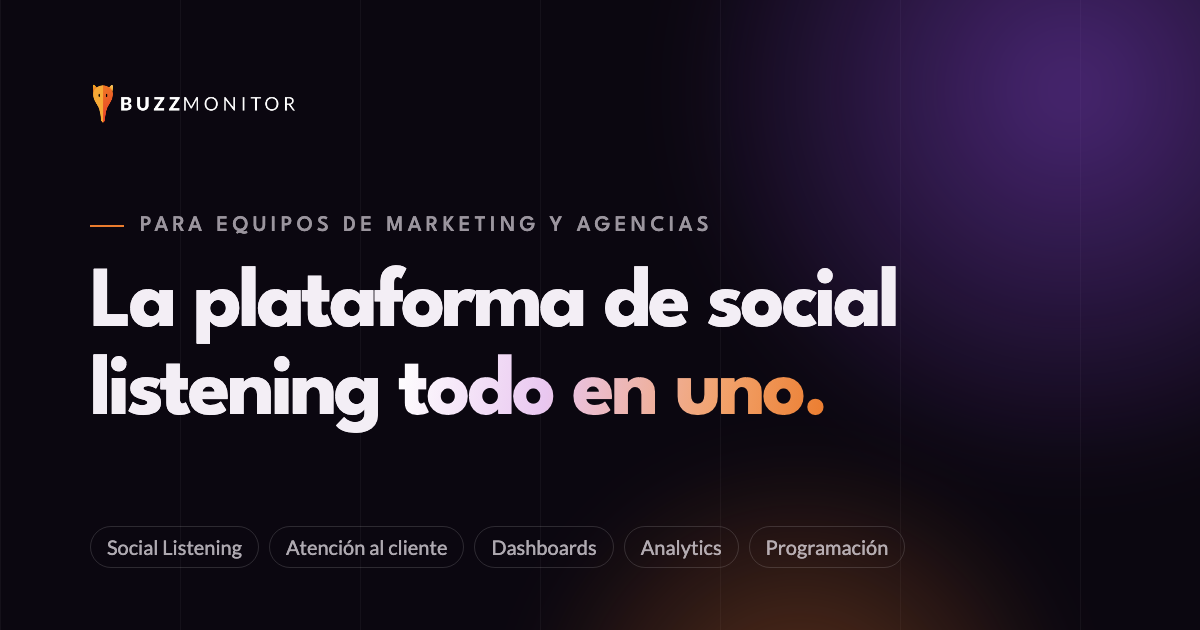
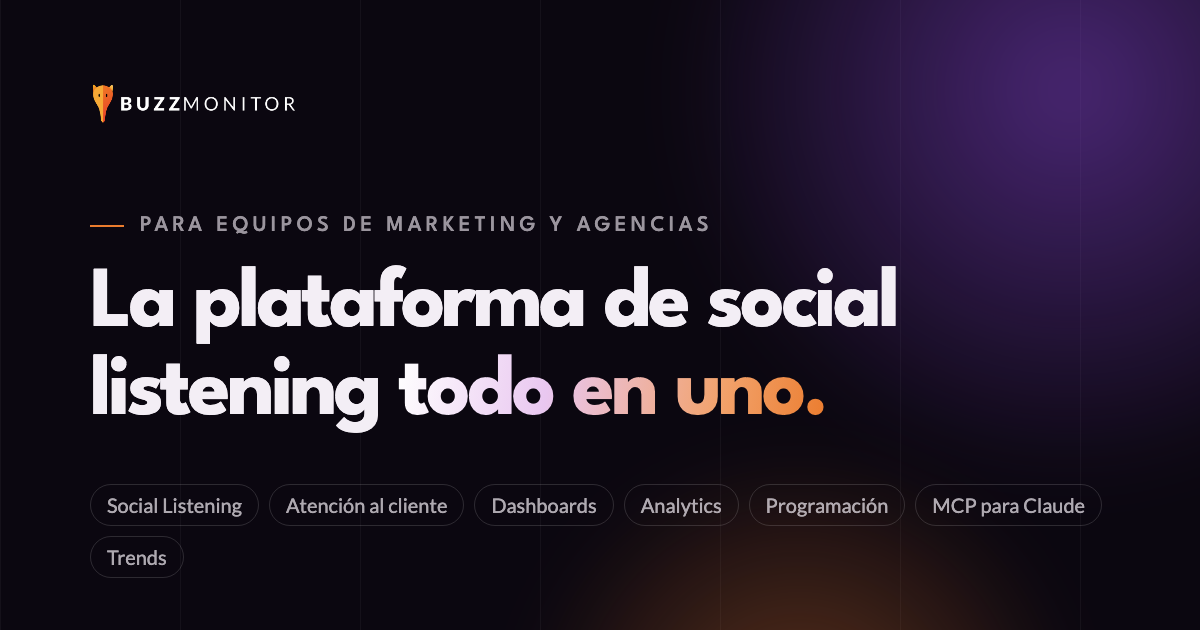
Atualizar LP todo-en-uno com 7 modulos e navegacao das abas (#822)

diff --git a/landing-pages/buzzmonitor/todo-en-uno/index.html b/landing-pages/buzzmonitor/todo-en-uno/index.html
@@ -12,7 +12,7 @@
   <!-- End Google Tag Manager -->
   <title>Buzzmonitor | La plataforma de social listening todo en uno</title>
   <link rel="canonical" href="https://{{DOMAIN}}/todo-en-uno">
-  <meta name="description" content="Social listening, atención al cliente con IA, dashboards, analytics y programación en una sola plataforma para equipos de marketing y agencias. Agenda tu demo.">
+  <meta name="description" content="Social listening, atención al cliente con IA, dashboards, analytics, programación, Trends y MCP para Claude en una sola plataforma para equipos de marketing y agencias. Agenda tu demo.">
   <meta name="robots" content="index, follow">
   <meta name="author" content="Buzzmonitor">
 
@@ -25,7 +25,7 @@
   <meta property="og:image" content="https://{{DOMAIN}}/{{OG_IMAGE_PATH}}">
   <meta property="og:image:width" content="1200">
   <meta property="og:image:height" content="630">
-  <meta property="og:image:alt" content="Los cinco módulos de Buzzmonitor en una sola plataforma">
+  <meta property="og:image:alt" content="Los siete módulos de Buzzmonitor en una sola plataforma">
 
   <meta name="twitter:card" content="summary_large_image">
   <meta name="twitter:title" content="Buzzmonitor | La plataforma de social listening todo en uno">
@@ -57,7 +57,7 @@
         "url": "https://{{DOMAIN}}/todo-en-uno",
         "inLanguage": "es-419",
         "isPartOf": { "@id": "https://buzzmonitor.com/#organization" },
-        "description": "Social listening, atención al cliente con IA, dashboards, analytics y programación en una sola plataforma para equipos de marketing y agencias."
+        "description": "Social listening, atención al cliente con IA, dashboards, analytics, programación, Trends y MCP para Claude en una sola plataforma para equipos de marketing y agencias."
       },
       {
         "@type": "SoftwareApplication",
@@ -828,6 +828,69 @@
     @media (max-width:640px){.hero__form{padding:20px 12px 6px;border-radius:20px}.hero__show{padding-bottom:70px}}
     .hero__in{padding-bottom:110px}
     @media (max-width:640px){.hero__in{padding-bottom:80px}}
+
+    /* ===== modulos 06 MCP + 07 Trends (pantallas) ===== */
+    .cl{background:#FAF9F5;font-family:"Lato",sans-serif;color:#2b2a27;min-height:420px;display:flex;flex-direction:column}
+    .cl-top{display:flex;align-items:center;gap:10px;padding:14px 18px;border-bottom:1px solid #ebe8df}
+    .cl-mark{width:18px;height:18px;border-radius:5px;background:#D97757}
+    .cl-top b{font-size:14px;font-weight:700}
+    .cl-conn{margin-left:auto;display:flex;align-items:center;gap:6px;font-size:11px;color:#5d5a52;background:#F0EEE6;border-radius:999px;padding:4px 10px}
+    .cl-conn i{width:7px;height:7px;border-radius:50%;background:#1FB33A}
+    .cl-body{flex:1;padding:18px 22px;display:grid;gap:12px;align-content:start}
+    .cl-user{justify-self:end;max-width:78%;background:#F0EEE6;border-radius:14px 14px 4px 14px;padding:10px 14px;font-size:12.5px;line-height:1.45}
+    .cl-tool{display:flex;align-items:center;gap:7px;font-size:11px;color:#5d5a52;border:1px solid #e6e2d8;border-radius:8px;padding:7px 10px;width:max-content}
+    .cl-tool b{color:#2b2a27}
+    .cl-ok{margin-left:8px;color:#14862a;font-weight:700}
+    .cl-ans p{margin:0;font-size:12.5px;line-height:1.55;min-height:3.2em;color:#2b2a27}
+    .cl-ans .typing::after{background:#D97757}
+    .cl-t{width:100%;border-collapse:collapse;margin-top:10px;font-size:11.5px;background:#fff;border:1px solid #ebe8df;border-radius:8px;overflow:hidden}
+    .cl-t th{text-align:left;font-weight:700;color:#5d5a52;padding:7px 10px;border-bottom:1px solid #ebe8df;font-size:10.5px}
+    .cl-t td{padding:7px 10px;border-bottom:1px solid #f3f1ea}
+    .cl-t td:first-child{display:flex;align-items:center;gap:7px}
+    .cl-t .bm-net{width:16px;height:16px}
+    .cl-input{margin:0 18px 16px;display:flex;align-items:center;justify-content:space-between;background:#fff;border:1px solid #e6e2d8;border-radius:12px;padding:10px 10px 10px 14px;font-size:12px;color:#8a867b}
+    .cl-input i{display:grid;place-items:center;width:26px;height:26px;border-radius:8px;background:#D97757}
+    .tr-search{display:flex;align-items:center;gap:8px;padding:12px 18px;border-bottom:1px solid #ececec}
+    .tr-search>span:first-child{flex:1;display:flex;align-items:center;gap:8px;font-size:11.5px;color:#888;border:1px solid #e3e3e3;border-radius:8px;padding:7px 10px}
+    .tr-chip{font-size:10.5px;color:#666;border:1px solid #e3e3e3;border-radius:999px;padding:5px 10px}
+    .tr-chip.on{background:#7B3FC4;border-color:#7B3FC4;color:#fff}
+    .tr-list{display:grid}
+    .tr-row{display:grid;grid-template-columns:18px 1fr 90px 58px;align-items:center;gap:10px;padding:8px 0;border-bottom:1px solid #f0f0f0;font-size:11.5px;color:#333}
+    .tr-n{color:#999;font-weight:700}
+    .tr-t{font-weight:700}
+    .tr-sp{width:90px;height:26px}
+    .tr-row .dl{justify-self:end}
+    .tr-vs{display:grid;grid-template-columns:repeat(3,1fr);gap:10px}
+    .tr-v{display:grid;grid-template-columns:18px 1fr;column-gap:8px;align-items:center;padding:9px;border:1px solid #eee;border-radius:8px;background:#fafafa}
+    .tr-v b{font-size:11px;color:#333}
+    .tr-v span{grid-column:2;font-size:10px;color:#888}
+    .tr-v .bm-net{width:18px;height:18px;grid-row:span 2}
+
+    /* ===== affordance "Como funciona" ===== */
+    .tabhint{display:flex;align-items:center;justify-content:center;gap:10px;margin:28px 0 0;font-family:var(--display);font-size:15px;color:var(--mu)}
+    .tabhint__ic{display:grid;place-items:center;width:32px;height:32px;border-radius:50%;border:1px solid var(--hl2);color:var(--orange);animation:tap 2.2s ease-in-out infinite}
+    .tabhint__ic svg{width:17px;height:17px}
+    @keyframes tap{0%,60%,100%{transform:none}70%{transform:translateY(2px) scale(.92)}80%{transform:none}}
+    .tabhint .th-m{display:none}
+    .tablist{margin-top:18px;max-width:100%;overflow-x:auto;scrollbar-width:none;scroll-behavior:smooth}
+    .tablist::-webkit-scrollbar{display:none}
+    .tab{padding:14px 15px 18px;font-size:14.5px}
+    .tab:hover{color:var(--tx);background:rgba(255,255,255,.04)}
+    .tab.peek b{position:relative}
+    .tab.peek::before{content:"";position:absolute;right:6px;top:10px;width:7px;height:7px;border-radius:50%;background:var(--orange);box-shadow:0 0 0 0 rgba(235,124,46,.6);animation:peek 1.6s infinite}
+    @keyframes peek{70%{box-shadow:0 0 0 8px rgba(235,124,46,0)}100%{box-shadow:0 0 0 0 rgba(235,124,46,0)}}
+    .tabnav{display:flex;align-items:center;justify-content:center;gap:14px;margin-top:22px}
+    .tabnav__b{display:grid;place-items:center;width:42px;height:42px;border-radius:50%;border:1px solid var(--hl2);background:transparent;color:var(--tx);cursor:pointer;transition:background .3s,color .3s,border-color .3s,transform .3s}
+    .tabnav__b:hover{background:#fff;color:var(--ink);border-color:#fff;transform:translateY(-2px)}
+    .tabnav__b svg{width:18px;height:18px}
+    .tabnav__c{font-family:var(--display);font-size:14px;letter-spacing:.12em;color:var(--mu2);min-width:72px;text-align:center}
+    .tabnav__c b{color:var(--tx);font-weight:600}
+    .panels{margin-top:34px}
+    @media (max-width:1060px){.tabhint .th-d{display:none}.tabhint .th-m{display:inline}}
+    @media (prefers-reduced-motion:reduce){.tabhint__ic,.tab.peek::before{animation:none}}
+    /* 7 cartas no deck */
+    .deck .dcard{--w:236px}
+    @media (max-width:640px){.deck .dcard{--w:210px}}
   </style>
 </head>
 <body>
@@ -885,8 +948,8 @@ height="0" width="0" style="display:none;visibility:hidden"></iframe></noscript>
     <div class="deck__track">
       <div class="deck__sticky">
         <div class="wrap deck__head">
-          <span class="eyebrow rv">Una plataforma, cinco funcionalidades</span>
-          <h2 class="h2 stair" id="mod-t">Todo lo que hoy haces en cinco pestañas, en una.</h2>
+          <span class="eyebrow rv">Una plataforma, siete funcionalidades</span>
+          <h2 class="h2 stair" id="mod-t">Todo lo que hoy haces en siete pestañas, en una.</h2>
         </div>
         <div class="deck__stage">
           <a class="dcard" href="#funcionalidades" data-tab="1"><span class="glare" aria-hidden="true"></span>
@@ -935,6 +998,22 @@ height="0" width="0" style="display:none;visibility:hidden"></iframe></noscript>
             <div class="dcard__txt"><span class="dcard__num">05</span><span class="dcard__name">Programación</span><span class="dcard__desc">Publicaciones en todas tus redes</span></div>
             <span class="dcard__go" aria-hidden="true"><svg viewBox="0 0 24 24" fill="none" stroke="currentColor" stroke-width="2" stroke-linecap="round" stroke-linejoin="round" aria-hidden="true"><path d="M5 12h14M13 6l6 6-6 6"/></svg></span>
           </a>
+          <a class="dcard" href="#funcionalidades" data-tab="6"><span class="glare" aria-hidden="true"></span>
+            <div class="dcard__vis" aria-hidden="true"><div class="scr " data-w="640"><div class="scr__in" style="width:640px"><div class="cl"><div class="cl-top"><span class="cl-mark"></span><b>Claude</b><span class="cl-conn"><i></i>Buzzmonitor conectado</span></div>
+<div class="cl-body"><div class="cl-user">Tráeme las menciones más negativas de las últimas 48 h y sepáralas por canal.</div>
+<div class="cl-tool"><svg viewBox="0 0 24 24" width="14" height="14" fill="none" stroke="currentColor" stroke-width="1.8" stroke-linecap="round"><path d="M14.7 6.3a4 4 0 0 0-5.4 5.4L3 18v3h3l6.3-6.3a4 4 0 0 0 5.4-5.4l-2.5 2.5-2.4-.6-.6-2.4z"/></svg>Usando <b>Buzzmonitor</b> · buscar_menciones<span class="cl-ok">Listo</span></div>
+<div class="cl-ans"><p>Encontré 1.284 menciones negativas en las últimas 48 h. El pico fue el martes a las 18:00, impulsado por reclamos sobre demoras en la entrega.</p><table class="cl-t"><thead><tr><th>Canal</th><th>Negativas</th><th>Tema principal</th></tr></thead><tbody><tr><td><img class="bm-net" src="./assets/redes/x.webp" alt="" width="16" height="16">X</td><td><b>612</b></td><td>Demora en la entrega</td></tr><tr><td><img class="bm-net" src="./assets/redes/instagram.webp" alt="" width="16" height="16">Instagram</td><td><b>401</b></td><td>Atención al cliente</td></tr><tr><td><img class="bm-net" src="./assets/redes/facebook.webp" alt="" width="16" height="16">Facebook</td><td><b>188</b></td><td>Cobro duplicado</td></tr><tr><td><img class="bm-net" src="./assets/redes/tiktok.webp" alt="" width="16" height="16">TikTok</td><td><b>83</b></td><td>Cambio de talla</td></tr></tbody></table></div></div>
+<div class="cl-input"><span>Pregúntale a Claude por tu marca…</span><i><svg viewBox="0 0 24 24" width="14" height="14" fill="none" stroke="#fff" stroke-width="2.4" stroke-linecap="round" stroke-linejoin="round"><path d="M12 19V5M5 12l7-7 7 7"/></svg></i></div></div></div></div></div>
+            <div class="dcard__txt"><span class="dcard__num">06</span><span class="dcard__name">MCP</span><span class="dcard__desc">Conecta Claude con Buzzmonitor</span></div>
+            <span class="dcard__go" aria-hidden="true"><svg viewBox="0 0 24 24" fill="none" stroke="currentColor" stroke-width="2" stroke-linecap="round" stroke-linejoin="round" aria-hidden="true"><path d="M5 12h14M13 6l6 6-6 6"/></svg></span>
+          </a>
+          <a class="dcard" href="#funcionalidades" data-tab="7"><span class="glare" aria-hidden="true"></span>
+            <div class="dcard__vis" aria-hidden="true"><div class="scr " data-w="640"><div class="scr__in" style="width:640px"><div class="bm-hd"><span class="bm-ic"><svg viewBox="0 0 24 24" fill="none" stroke="currentColor" stroke-width="1.5" stroke-linecap="round" stroke-linejoin="round"><path d="M3 17l6-6 4 4 8-8"/><path d="M15 7h6v6"/></svg></span><b>Trends</b><span class="bm-act"><span><svg viewBox="0 0 24 24" fill="none" stroke="currentColor" stroke-width="1.5"><path d="M3 7a2 2 0 0 1 2-2h4l2 2h8a2 2 0 0 1 2 2v8a2 2 0 0 1-2 2H5a2 2 0 0 1-2-2z"/></svg>Colección</span><span><svg viewBox="0 0 24 24" fill="none" stroke="currentColor" stroke-width="1.5" stroke-linecap="round"><rect x="3" y="4" width="18" height="14" rx="2"/><path d="M7 14l3-3 3 2 4-4M9 21h6"/></svg>Dashboard</span><svg class="chev" viewBox="0 0 12 12"><path d="M3 4.5l3 3 3-3" fill="none" stroke="currentColor" stroke-width="1.4"/></svg></span></div><div class="tr-search"><span><svg viewBox="0 0 24 24" width="14" height="14" fill="none" stroke="currentColor" stroke-width="2" stroke-linecap="round"><circle cx="11" cy="11" r="7"/><path d="M20 20l-3.5-3.5"/></svg>Buscar un tema o hashtag</span><span class="tr-chip on">Últimas 24 h</span><span class="tr-chip">LATAM</span></div>
+<div class="bm-grid g2b"><div class="w"><p class="bm-wt">Temas en alza</p><div class="tr-list"><div class="tr-row"><span class="tr-n">1</span><span class="tr-t">#HotSale</span><svg class="tr-sp" viewBox="0 0 90 26"><polyline points="0.0,21.0 15.0,20.0 30.0,20.0 45.0,18.0 60.0,15.0 75.0,10.0 90.0,2.0" fill="none" stroke="#1A73E8" stroke-width="1.8" stroke-linejoin="round" stroke-linecap="round"/></svg><span class="dl up"><svg viewBox="0 0 12 12" class="ar"><path d="M2.5 9.5l7-7M4 2.5h5.5V8" fill="none" stroke="currentColor" stroke-width="1.6" stroke-linecap="round" stroke-linejoin="round"/></svg>312%</span></div><div class="tr-row"><span class="tr-n">2</span><span class="tr-t">Envío gratis</span><svg class="tr-sp" viewBox="0 0 90 26"><polyline points="0.0,16.7 15.0,16.7 30.0,15.2 45.0,13.7 60.0,10.8 75.0,7.9 90.0,2.0" fill="none" stroke="#1A73E8" stroke-width="1.8" stroke-linejoin="round" stroke-linecap="round"/></svg><span class="dl up"><svg viewBox="0 0 12 12" class="ar"><path d="M2.5 9.5l7-7M4 2.5h5.5V8" fill="none" stroke="currentColor" stroke-width="1.6" stroke-linecap="round" stroke-linejoin="round"/></svg>184%</span></div><div class="tr-row"><span class="tr-n">3</span><span class="tr-t">Black Friday</span><svg class="tr-sp" viewBox="0 0 90 26"><polyline points="0.0,20.0 15.0,18.0 30.0,18.0 45.0,14.0 60.0,12.0 75.0,8.0 90.0,2.0" fill="none" stroke="#1A73E8" stroke-width="1.8" stroke-linejoin="round" stroke-linecap="round"/></svg><span class="dl up"><svg viewBox="0 0 12 12" class="ar"><path d="M2.5 9.5l7-7M4 2.5h5.5V8" fill="none" stroke="currentColor" stroke-width="1.6" stroke-linecap="round" stroke-linejoin="round"/></svg>151%</span></div><div class="tr-row"><span class="tr-n">4</span><span class="tr-t">Atención al cliente</span><svg class="tr-sp" viewBox="0 0 90 26"><polyline points="0.0,13.0 15.0,13.0 30.0,11.2 45.0,11.2 60.0,9.3 75.0,5.7 90.0,2.0" fill="none" stroke="#1A73E8" stroke-width="1.8" stroke-linejoin="round" stroke-linecap="round"/></svg><span class="dl up"><svg viewBox="0 0 12 12" class="ar"><path d="M2.5 9.5l7-7M4 2.5h5.5V8" fill="none" stroke="currentColor" stroke-width="1.6" stroke-linecap="round" stroke-linejoin="round"/></svg>96%</span></div><div class="tr-row"><span class="tr-n">5</span><span class="tr-t">Cupones</span><svg class="tr-sp" viewBox="0 0 90 26"><polyline points="0.0,13.0 15.0,13.0 30.0,10.2 45.0,10.2 60.0,7.5 75.0,4.8 90.0,2.0" fill="none" stroke="#1A73E8" stroke-width="1.8" stroke-linejoin="round" stroke-linecap="round"/></svg><span class="dl up"><svg viewBox="0 0 12 12" class="ar"><path d="M2.5 9.5l7-7M4 2.5h5.5V8" fill="none" stroke="currentColor" stroke-width="1.6" stroke-linecap="round" stroke-linejoin="round"/></svg>74%</span></div></div></div><div class="w"><p class="bm-wt">Sentimiento del público</p><div class="bm-pie"><svg viewBox="-40 -14 204 152" style="overflow:visible"><circle class="pseg" cx="62" cy="62" r="46" stroke="#1FB33A" stroke-width="32" stroke-dasharray="0 289.0" style="--len:140.5;--c:289.0" stroke-dashoffset="0.0" data-n="Positivo" data-v="48.6"/><circle class="pseg" cx="62" cy="62" r="46" stroke="#FFAA5B" stroke-width="32" stroke-dasharray="0 289.0" style="--len:98.6;--c:289.0" stroke-dashoffset="-140.5" data-n="Neutro" data-v="34.1"/><circle class="pseg" cx="62" cy="62" r="46" stroke="#F21B1B" stroke-width="32" stroke-dasharray="0 289.0" style="--len:50.0;--c:289.0" stroke-dashoffset="-239.0" data-n="Negativo" data-v="17.3"/></svg><div class="bm-leg"><span><i style="background:#1FB33A"></i>Positivo</span><span><i style="background:#FFAA5B"></i>Neutro</span><span><i style="background:#F21B1B"></i>Negativo</span></div></div></div></div>
+<div class="bm-grid g1"><div class="w"><p class="bm-wt">Quién está hablando</p><div class="tr-vs"><div class="tr-v"><img class="bm-net" src="./assets/redes/instagram.webp" alt="" width="18" height="18"><b>@lu.compras</b><span>18,2k interacciones</span></div><div class="tr-v"><img class="bm-net" src="./assets/redes/x.webp" alt="" width="18" height="18"><b>@techdeals_mx</b><span>12,7k interacciones</span></div><div class="tr-v"><img class="bm-net" src="./assets/redes/tiktok.webp" alt="" width="18" height="18"><b>@ofertasdehoy</b><span>9,4k interacciones</span></div></div></div></div></div></div></div>
+            <div class="dcard__txt"><span class="dcard__num">07</span><span class="dcard__name">Trends</span><span class="dcard__desc">Temas en alza, sentimiento y quién está hablando</span></div>
+            <span class="dcard__go" aria-hidden="true"><svg viewBox="0 0 24 24" fill="none" stroke="currentColor" stroke-width="2" stroke-linecap="round" stroke-linejoin="round" aria-hidden="true"><path d="M5 12h14M13 6l6 6-6 6"/></svg></span>
+          </a>
         </div>
       </div>
     </div>
@@ -957,7 +1036,9 @@ height="0" width="0" style="display:none;visibility:hidden"></iframe></noscript>
         <span class="eyebrow rv">Cómo funciona</span>
         <h2 class="h2 stair" id="feat-t">Conoce cada módulo.</h2>
       </div>
-      <div class="tablist rv" role="tablist" aria-label="Funcionalidades de Buzzmonitor"><button class="tab" role="tab" id="t1" aria-controls="p1" aria-selected="true"><b>01</b>Social Listening</button><button class="tab" role="tab" id="t2" aria-controls="p2" aria-selected="false" tabindex="-1"><b>02</b>Atención al cliente</button><button class="tab" role="tab" id="t3" aria-controls="p3" aria-selected="false" tabindex="-1"><b>03</b>Dashboards</button><button class="tab" role="tab" id="t4" aria-controls="p4" aria-selected="false" tabindex="-1"><b>04</b>Analytics</button><button class="tab" role="tab" id="t5" aria-controls="p5" aria-selected="false" tabindex="-1"><b>05</b>Programación</button><span class="tab__ink" aria-hidden="true"></span></div>
+      <p class="tabhint rv"><span class="tabhint__ic" aria-hidden="true"><svg viewBox="0 0 24 24" fill="none" stroke="currentColor" stroke-width="1.7" stroke-linecap="round" stroke-linejoin="round"><path d="M9 11V5.5a1.5 1.5 0 0 1 3 0V10m0-1.5a1.5 1.5 0 0 1 3 0V11m0-1a1.5 1.5 0 0 1 3 0v4.5a6 6 0 0 1-6 6h-.6a6 6 0 0 1-4.6-2.2L4.6 15a1.6 1.6 0 0 1 2.4-2.1L9 15"/></svg></span><span class="th-d">Elige un módulo para ver cómo funciona</span><span class="th-m">Toca un módulo o desliza para explorarlos</span></p>
+      <div class="tablist rv" role="tablist" aria-label="Funcionalidades de Buzzmonitor"><button class="tab" role="tab" id="t1" aria-controls="p1" aria-selected="true"><b>01</b>Social Listening</button><button class="tab" role="tab" id="t2" aria-controls="p2" aria-selected="false" tabindex="-1"><b>02</b>Atención al cliente</button><button class="tab" role="tab" id="t3" aria-controls="p3" aria-selected="false" tabindex="-1"><b>03</b>Dashboards</button><button class="tab" role="tab" id="t4" aria-controls="p4" aria-selected="false" tabindex="-1"><b>04</b>Analytics</button><button class="tab" role="tab" id="t5" aria-controls="p5" aria-selected="false" tabindex="-1"><b>05</b>Programación</button><button class="tab" role="tab" id="t6" aria-controls="p6" aria-selected="false" tabindex="-1"><b>06</b>MCP</button><button class="tab" role="tab" id="t7" aria-controls="p7" aria-selected="false" tabindex="-1"><b>07</b>Trends</button><span class="tab__ink" aria-hidden="true"></span></div>
+      <div class="tabnav rv"><button type="button" class="tabnav__b" data-dir="-1" aria-label="Módulo anterior"><svg viewBox="0 0 24 24" fill="none" stroke="currentColor" stroke-width="2" stroke-linecap="round" stroke-linejoin="round" aria-hidden="true"><path d="M15 6l-6 6 6 6"/></svg></button><span class="tabnav__c" aria-live="polite"><b id="tabCur">01</b> / 07</span><button type="button" class="tabnav__b" data-dir="1" aria-label="Módulo siguiente"><svg viewBox="0 0 24 24" fill="none" stroke="currentColor" stroke-width="2" stroke-linecap="round" stroke-linejoin="round" aria-hidden="true"><path d="M9 6l6 6-6 6"/></svg></button></div>
       <div class="panels">
         <div class="panel" role="tabpanel" id="p1" aria-labelledby="t1" tabindex="0">
           <div class="panel__copy">
@@ -1030,8 +1111,35 @@ height="0" width="0" style="display:none;visibility:hidden"></iframe></noscript>
           <div class="panel__art" aria-hidden="true"><div class="scr " data-w="640"><div class="scr__in" style="width:640px"><div class="bm-hd"><span class="bm-ic"><svg viewBox="0 0 24 24" fill="none" stroke="currentColor" stroke-width="1.5" stroke-linecap="round" stroke-linejoin="round"><rect x="3" y="4" width="18" height="17" rx="2"/><path d="M3 9h18M8 2v4M16 2v4M8 14h3M8 17h6"/></svg></span><b>Contenido · Calendario</b><span class="bm-act"><span><svg viewBox="0 0 24 24" fill="none" stroke="currentColor" stroke-width="1.5"><path d="M3 7a2 2 0 0 1 2-2h4l2 2h8a2 2 0 0 1 2 2v8a2 2 0 0 1-2 2H5a2 2 0 0 1-2-2z"/></svg>Colección</span><span><svg viewBox="0 0 24 24" fill="none" stroke="currentColor" stroke-width="1.5" stroke-linecap="round"><rect x="3" y="4" width="18" height="14" rx="2"/><path d="M7 14l3-3 3 2 4-4M9 21h6"/></svg>Dashboard</span><svg class="chev" viewBox="0 0 12 12"><path d="M3 4.5l3 3 3-3" fill="none" stroke="currentColor" stroke-width="1.4"/></svg></span></div>
 <div class="bm-grid g1"><div class="w"><div class="cal-top"><b>Octubre 2026</b><span class="seg"><span>Mes</span><span class="on">Semana</span><span>Lista</span></span><span class="newp">+ Nueva publicación</span></div><div class="cal"><div class="cd"><div class="cd-h"><span>Lun</span><b>06</b></div><div class="pc"><i class="pth" style="background:linear-gradient(135deg,#FFD5C3,#EB7C2E)"></i><div class="pc-m"><img class="bm-net" src="./assets/redes/instagram.webp" alt="" width="16" height="16"><b>09:00</b></div><span class="st ok">Aprobado</span></div></div><div class="cd"><div class="cd-h"><span>Mar</span><b>07</b></div><div class="pc"><i class="pth" style="background:linear-gradient(135deg,#CDFDFC,#0E9D9B)"></i><div class="pc-m"><img class="bm-net" src="./assets/redes/tiktok.webp" alt="" width="16" height="16"><b>13:30</b></div><span class="st rv">En revisión</span></div><div class="pc"><i class="pth tx"><b></b><b></b><b></b></i><div class="pc-m"><img class="bm-net" src="./assets/redes/x.webp" alt="" width="16" height="16"><b>18:00</b></div><span class="st ok">Aprobado</span></div></div><div class="cd"><div class="cd-h"><span>Mié</span><b>08</b></div><div class="pc"><i class="pth" style="background:linear-gradient(135deg,#F2D8FF,#7B3FC4)"></i><div class="pc-m"><img class="bm-net" src="./assets/redes/facebook.webp" alt="" width="16" height="16"><b>11:00</b></div><span class="st ok">Aprobado</span></div><div class="pc"><i class="pth" style="background:linear-gradient(135deg,#FFE1AD,#FCBD4F)"></i><div class="pc-m"><img class="bm-net" src="./assets/redes/instagram.webp" alt="" width="16" height="16"><b>19:30</b></div><span class="st dr">Borrador</span></div></div><div class="cd"><div class="cd-h"><span>Jue</span><b>09</b></div><div class="pc"><i class="pth" style="background:linear-gradient(135deg,#390155,#DE2451)"></i><div class="pc-m"><img class="bm-net" src="./assets/redes/youtube.webp" alt="" width="16" height="16"><b>17:00</b></div><span class="st ok">Aprobado</span></div></div><div class="cd"><div class="cd-h"><span>Vie</span><b>10</b></div><div class="pc"><i class="pth tx"><b></b><b></b><b></b></i><div class="pc-m"><img class="bm-net" src="./assets/redes/linkedin.webp" alt="" width="16" height="16"><b>12:00</b></div><span class="st rv">En revisión</span></div><div class="pc"><i class="pth" style="background:linear-gradient(135deg,#CDFDFC,#1A73E8)"></i><div class="pc-m"><img class="bm-net" src="./assets/redes/instagram.webp" alt="" width="16" height="16"><b>20:00</b></div><span class="st ok">Aprobado</span></div></div></div></div></div></div></div></div>
         </div>
+      
+        <div class="panel" role="tabpanel" id="p6" aria-labelledby="t6" tabindex="0">
+          <div class="panel__copy">
+            <span class="panel__num" aria-hidden="true">06</span>
+            <span class="eyebrow">MCP</span>
+            <h3>Pregúntale a Claude por tus datos de Buzzmonitor.</h3>
+            <p>Conecta tu cuenta de Buzzmonitor a Claude y consulta menciones, dashboards y tickets sin salir de la conversación.</p>
+            <ul><li>Consultas en lenguaje natural</li><li>Reportes de Social Listening con un prompt</li><li>Acceso a listening, trends, competidores y dashboards</li></ul>
+          </div>
+          <div class="panel__art" aria-hidden="true"><div class="scr " data-w="640"><div class="scr__in" style="width:640px"><div class="cl"><div class="cl-top"><span class="cl-mark"></span><b>Claude</b><span class="cl-conn"><i></i>Buzzmonitor conectado</span></div>
+<div class="cl-body"><div class="cl-user">Tráeme las menciones más negativas de las últimas 48 h y sepáralas por canal.</div>
+<div class="cl-tool"><svg viewBox="0 0 24 24" width="14" height="14" fill="none" stroke="currentColor" stroke-width="1.8" stroke-linecap="round"><path d="M14.7 6.3a4 4 0 0 0-5.4 5.4L3 18v3h3l6.3-6.3a4 4 0 0 0 5.4-5.4l-2.5 2.5-2.4-.6-.6-2.4z"/></svg>Usando <b>Buzzmonitor</b> · buscar_menciones<span class="cl-ok">Listo</span></div>
+<div class="cl-ans"><p class="typing" data-text="Encontré 1.284 menciones negativas en las últimas 48 h. El pico fue el martes a las 18:00, impulsado por reclamos sobre demoras en la entrega."></p><table class="cl-t"><thead><tr><th>Canal</th><th>Negativas</th><th>Tema principal</th></tr></thead><tbody><tr><td><img class="bm-net" src="./assets/redes/x.webp" alt="" width="16" height="16">X</td><td><b>612</b></td><td>Demora en la entrega</td></tr><tr><td><img class="bm-net" src="./assets/redes/instagram.webp" alt="" width="16" height="16">Instagram</td><td><b>401</b></td><td>Atención al cliente</td></tr><tr><td><img class="bm-net" src="./assets/redes/facebook.webp" alt="" width="16" height="16">Facebook</td><td><b>188</b></td><td>Cobro duplicado</td></tr><tr><td><img class="bm-net" src="./assets/redes/tiktok.webp" alt="" width="16" height="16">TikTok</td><td><b>83</b></td><td>Cambio de talla</td></tr></tbody></table></div></div>
+<div class="cl-input"><span>Pregúntale a Claude por tu marca…</span><i><svg viewBox="0 0 24 24" width="14" height="14" fill="none" stroke="#fff" stroke-width="2.4" stroke-linecap="round" stroke-linejoin="round"><path d="M12 19V5M5 12l7-7 7 7"/></svg></i></div></div></div></div></div>
+        </div>
+        <div class="panel" role="tabpanel" id="p7" aria-labelledby="t7" tabindex="0">
+          <div class="panel__copy">
+            <span class="panel__num" aria-hidden="true">07</span>
+            <span class="eyebrow">Trends</span>
+            <h3>Descubre de qué está hablando tu audiencia hoy.</h3>
+            <p>Buzzmonitor Trends te muestra los temas en alza, el sentimiento del público, los top posts y quién está hablando.</p>
+            <ul><li>Temas en alza en tiempo real</li><li>Sentimiento del público por tema</li><li>Top posts y principales voces</li></ul>
+          </div>
+          <div class="panel__art" aria-hidden="true"><div class="scr " data-w="640"><div class="scr__in" style="width:640px"><div class="bm-hd"><span class="bm-ic"><svg viewBox="0 0 24 24" fill="none" stroke="currentColor" stroke-width="1.5" stroke-linecap="round" stroke-linejoin="round"><path d="M3 17l6-6 4 4 8-8"/><path d="M15 7h6v6"/></svg></span><b>Trends</b><span class="bm-act"><span><svg viewBox="0 0 24 24" fill="none" stroke="currentColor" stroke-width="1.5"><path d="M3 7a2 2 0 0 1 2-2h4l2 2h8a2 2 0 0 1 2 2v8a2 2 0 0 1-2 2H5a2 2 0 0 1-2-2z"/></svg>Colección</span><span><svg viewBox="0 0 24 24" fill="none" stroke="currentColor" stroke-width="1.5" stroke-linecap="round"><rect x="3" y="4" width="18" height="14" rx="2"/><path d="M7 14l3-3 3 2 4-4M9 21h6"/></svg>Dashboard</span><svg class="chev" viewBox="0 0 12 12"><path d="M3 4.5l3 3 3-3" fill="none" stroke="currentColor" stroke-width="1.4"/></svg></span></div><div class="tr-search"><span><svg viewBox="0 0 24 24" width="14" height="14" fill="none" stroke="currentColor" stroke-width="2" stroke-linecap="round"><circle cx="11" cy="11" r="7"/><path d="M20 20l-3.5-3.5"/></svg>Buscar un tema o hashtag</span><span class="tr-chip on">Últimas 24 h</span><span class="tr-chip">LATAM</span></div>
+<div class="bm-grid g2b"><div class="w"><p class="bm-wt">Temas en alza</p><div class="tr-list"><div class="tr-row"><span class="tr-n">1</span><span class="tr-t">#HotSale</span><svg class="tr-sp" viewBox="0 0 90 26"><polyline points="0.0,21.0 15.0,20.0 30.0,20.0 45.0,18.0 60.0,15.0 75.0,10.0 90.0,2.0" fill="none" stroke="#1A73E8" stroke-width="1.8" stroke-linejoin="round" stroke-linecap="round"/></svg><span class="dl up"><svg viewBox="0 0 12 12" class="ar"><path d="M2.5 9.5l7-7M4 2.5h5.5V8" fill="none" stroke="currentColor" stroke-width="1.6" stroke-linecap="round" stroke-linejoin="round"/></svg>312%</span></div><div class="tr-row"><span class="tr-n">2</span><span class="tr-t">Envío gratis</span><svg class="tr-sp" viewBox="0 0 90 26"><polyline points="0.0,16.7 15.0,16.7 30.0,15.2 45.0,13.7 60.0,10.8 75.0,7.9 90.0,2.0" fill="none" stroke="#1A73E8" stroke-width="1.8" stroke-linejoin="round" stroke-linecap="round"/></svg><span class="dl up"><svg viewBox="0 0 12 12" class="ar"><path d="M2.5 9.5l7-7M4 2.5h5.5V8" fill="none" stroke="currentColor" stroke-width="1.6" stroke-linecap="round" stroke-linejoin="round"/></svg>184%</span></div><div class="tr-row"><span class="tr-n">3</span><span class="tr-t">Black Friday</span><svg class="tr-sp" viewBox="0 0 90 26"><polyline points="0.0,20.0 15.0,18.0 30.0,18.0 45.0,14.0 60.0,12.0 75.0,8.0 90.0,2.0" fill="none" stroke="#1A73E8" stroke-width="1.8" stroke-linejoin="round" stroke-linecap="round"/></svg><span class="dl up"><svg viewBox="0 0 12 12" class="ar"><path d="M2.5 9.5l7-7M4 2.5h5.5V8" fill="none" stroke="currentColor" stroke-width="1.6" stroke-linecap="round" stroke-linejoin="round"/></svg>151%</span></div><div class="tr-row"><span class="tr-n">4</span><span class="tr-t">Atención al cliente</span><svg class="tr-sp" viewBox="0 0 90 26"><polyline points="0.0,13.0 15.0,13.0 30.0,11.2 45.0,11.2 60.0,9.3 75.0,5.7 90.0,2.0" fill="none" stroke="#1A73E8" stroke-width="1.8" stroke-linejoin="round" stroke-linecap="round"/></svg><span class="dl up"><svg viewBox="0 0 12 12" class="ar"><path d="M2.5 9.5l7-7M4 2.5h5.5V8" fill="none" stroke="currentColor" stroke-width="1.6" stroke-linecap="round" stroke-linejoin="round"/></svg>96%</span></div><div class="tr-row"><span class="tr-n">5</span><span class="tr-t">Cupones</span><svg class="tr-sp" viewBox="0 0 90 26"><polyline points="0.0,13.0 15.0,13.0 30.0,10.2 45.0,10.2 60.0,7.5 75.0,4.8 90.0,2.0" fill="none" stroke="#1A73E8" stroke-width="1.8" stroke-linejoin="round" stroke-linecap="round"/></svg><span class="dl up"><svg viewBox="0 0 12 12" class="ar"><path d="M2.5 9.5l7-7M4 2.5h5.5V8" fill="none" stroke="currentColor" stroke-width="1.6" stroke-linecap="round" stroke-linejoin="round"/></svg>74%</span></div></div></div><div class="w"><p class="bm-wt">Sentimiento del público</p><div class="bm-pie"><svg viewBox="-40 -14 204 152" style="overflow:visible"><circle class="pseg" cx="62" cy="62" r="46" stroke="#1FB33A" stroke-width="32" stroke-dasharray="0 289.0" style="--len:140.5;--c:289.0" stroke-dashoffset="0.0" data-n="Positivo" data-v="48.6"/><circle class="pseg" cx="62" cy="62" r="46" stroke="#FFAA5B" stroke-width="32" stroke-dasharray="0 289.0" style="--len:98.6;--c:289.0" stroke-dashoffset="-140.5" data-n="Neutro" data-v="34.1"/><circle class="pseg" cx="62" cy="62" r="46" stroke="#F21B1B" stroke-width="32" stroke-dasharray="0 289.0" style="--len:50.0;--c:289.0" stroke-dashoffset="-239.0" data-n="Negativo" data-v="17.3"/></svg><div class="bm-leg"><span><i style="background:#1FB33A"></i>Positivo</span><span><i style="background:#FFAA5B"></i>Neutro</span><span><i style="background:#F21B1B"></i>Negativo</span></div></div></div></div>
+<div class="bm-grid g1"><div class="w"><p class="bm-wt">Quién está hablando</p><div class="tr-vs"><div class="tr-v"><img class="bm-net" src="./assets/redes/instagram.webp" alt="" width="18" height="18"><b>@lu.compras</b><span>18,2k interacciones</span></div><div class="tr-v"><img class="bm-net" src="./assets/redes/x.webp" alt="" width="18" height="18"><b>@techdeals_mx</b><span>12,7k interacciones</span></div><div class="tr-v"><img class="bm-net" src="./assets/redes/tiktok.webp" alt="" width="18" height="18"><b>@ofertasdehoy</b><span>9,4k interacciones</span></div></div></div></div></div></div></div>
+        </div>
       </div>
-      <div class="features__cta rv"><a href="#demo" class="btn btn--light mag"><span>Quiero ver las 5 funcionalidades en una demo</span><i><svg viewBox="0 0 24 24" fill="none" stroke="currentColor" stroke-width="2" stroke-linecap="round" stroke-linejoin="round" aria-hidden="true"><path d="M5 12h14M13 6l6 6-6 6"/></svg></i></a></div>
+      <div class="features__cta rv"><a href="#demo" class="btn btn--light mag"><span>Quiero ver las 7 funcionalidades en una demo</span><i><svg viewBox="0 0 24 24" fill="none" stroke="currentColor" stroke-width="2" stroke-linecap="round" stroke-linejoin="round" aria-hidden="true"><path d="M5 12h14M13 6l6 6-6 6"/></svg></i></a></div>
     </div>
   </section>
 
@@ -1054,7 +1162,7 @@ height="0" width="0" style="display:none;visibility:hidden"></iframe></noscript>
       <div>
         <span class="eyebrow rv">Demo con un especialista</span>
         <h2 class="h2 stair" id="demo-t">Mira tu marca dentro de Buzzmonitor.</h2>
-        <p class="lead rv">Agenda una demo con un especialista y conoce las 5 funcionalidades aplicadas a tu operación.</p>
+        <p class="lead rv">Agenda una demo con un especialista y conoce las 7 funcionalidades aplicadas a tu operación.</p>
       </div>
       <div class="final__cta rv"><a href="#demo" class="btn btn--light mag"><span>Quiero agendar mi demo</span><i><svg viewBox="0 0 24 24" fill="none" stroke="currentColor" stroke-width="2" stroke-linecap="round" stroke-linejoin="round" aria-hidden="true"><path d="M5 12h14M13 6l6 6-6 6"/></svg></i></a></div>
     </div>
@@ -1206,10 +1314,10 @@ height="0" width="0" style="display:none;visibility:hidden"></iframe></noscript>
   if(pinned)deck.classList.add('is-pinned');
   var seeds=cards.map(function(){return{r:(Math.random()*2-1)*22,x:(Math.random()*2-1)*160}});
   function deal(p){
-    var w=window.innerWidth,mob=w<700,gap=mob?Math.min(26,(w-230)/5):Math.min(200,(w-340)/4),n=cards.length;
+    var w=window.innerWidth,n=cards.length,mob=w<700,gap=mob?Math.min(22,(w-230)/(n-1)):Math.min(170,(w-340)/(n-1));
     cards.forEach(function(c,i){
-      var s=i*.13,q=clamp((p-s)/.24,0,1),e=ease(q),k=1-e,m=i-(n-1)/2;
-      var x=m*gap+seeds[i].x*k,y=Math.abs(m)*(mob?10:16)+window.innerHeight*.85*k,r=m*(mob?2.4:3.2)+seeds[i].r*k;
+      var s=i*(.62/(n-1)),q=clamp((p-s)/.26,0,1),e=ease(q),k=1-e,m=i-(n-1)/2;
+      var x=m*gap+seeds[i].x*k,y=Math.abs(m)*(mob?10:16)+window.innerHeight*.85*k,r=m*(mob?1.8:2.6)+seeds[i].r*k;
       c.style.transform='translate3d('+x.toFixed(1)+'px,'+y.toFixed(1)+'px,0) rotate('+r.toFixed(2)+'deg)';
       c.style.zIndex=i+1;
       if(q>.55&&!c.classList.contains('on')){c.classList.add('on');counters(c)}
@@ -1254,10 +1362,11 @@ height="0" width="0" style="display:none;visibility:hidden"></iframe></noscript>
     tabs.forEach(function(t,j){var on=i===j;t.setAttribute('aria-selected',on);t.tabIndex=on?0:-1;panels[j].hidden=!on;
       if(on){var p=panels[j];p.classList.remove('enter','on');void p.offsetWidth;p.classList.add('enter');fit();
         setTimeout(function(){p.classList.add('on');recount(p);$$('.typing',p).forEach(function(t){type(t,900)})},60)}});
-    placeInk();if(focus)tabs[i].focus();
+    placeInk();if(focus)tabs[i].focus();var tc=document.getElementById('tabCur');if(tc)tc.textContent=String(i+1).padStart(2,'0');tabs.forEach(function(t,j){t.classList.toggle('peek',!userPicked&&j===(i+1)%tabs.length)});
     var tl=$('.tablist');if(tl.scrollWidth>tl.clientWidth){var t=tabs[i];tl.scrollTo({left:t.offsetLeft-(tl.clientWidth-t.offsetWidth)/2,behavior:RM?'auto':'smooth'})}
   }
-  function stopAuto(){auto=false;ink.style.setProperty('--tp',0)}
+  var userPicked=false;
+  function stopAuto(){auto=false;userPicked=true;ink.style.setProperty('--tp',0);tabs.forEach(function(t){t.classList.remove('peek')})}
   tabs.forEach(function(t,i){
     t.addEventListener('click',function(){stopAuto();select(i)});
     t.addEventListener('keydown',function(e){var k=e.key,n=tabs.length,g=null;
@@ -1275,6 +1384,11 @@ height="0" width="0" style="display:none;visibility:hidden"></iframe></noscript>
   if(document.fonts&&document.fonts.ready)document.fonts.ready.then(placeInk);
   select(0);
   $$('[data-tab]').forEach(function(a){a.addEventListener('click',function(){stopAuto();select(+a.dataset.tab-1)})});
+  $$('.tabnav__b').forEach(function(b){b.addEventListener('click',function(){stopAuto();var n=tabs.length;select((cur+(+b.dataset.dir)+n)%n)})});
+  (function(){var pn=$('.panels'),x0=null,y0=null;if(!pn)return;
+    pn.addEventListener('touchstart',function(e){x0=e.touches[0].clientX;y0=e.touches[0].clientY},{passive:true});
+    pn.addEventListener('touchend',function(e){if(x0===null)return;var dx=e.changedTouches[0].clientX-x0,dy=e.changedTouches[0].clientY-y0;x0=null;
+      if(Math.abs(dx)>50&&Math.abs(dx)>Math.abs(dy)*1.4){stopAuto();var n=tabs.length;select((cur+(dx<0?1:-1)+n)%n)}},{passive:true});})();
 
   /* ---------- magnetic buttons ---------- */
   if(FINE&&!RM)$$('.mag').forEach(function(b){

diff --git a/landing-pages/buzzmonitor/todo-en-uno/README.md b/landing-pages/buzzmonitor/todo-en-uno/README.md
@@ -96,3 +96,9 @@ Link do header `#modulos`: rola ate o topo da secao e distribui as 5 cartas auto
 - 2026-10-15: removidos do hero o dashboard animado e os cards AI Insights / Alerta de crise (pedido do usuario). Hero = copy | formulario.
 
 - 2026-10-15: slug renomeado `todo-en-uno-premium-latam` -> `todo-en-uno` (pedido do usuario). Destino: content.buzzmonitor.com/todo-en-uno
+
+## 7 modulos + navegacao das abas (2026-10-15)
+
+- Deck e abas com 7 modulos: novos 06 MCP (tela estilo Claude consultando Buzzmonitor) e 07 Trends (tela Trends: temas em alta com sparklines, sentimento, quem esta falando).
+- "Como funciona": dica "Elige un modulo..." (mobile: "Toca... o desliza"), botoes anterior/seguinte com contador 01/07, ponto pulsante na proxima aba ate o usuario interagir, swipe no mobile, abas com scroll horizontal.
+- Deck: espacamento e tempos de distribuicao genericos por N cartas. OG regenerada com os 7 modulos.
